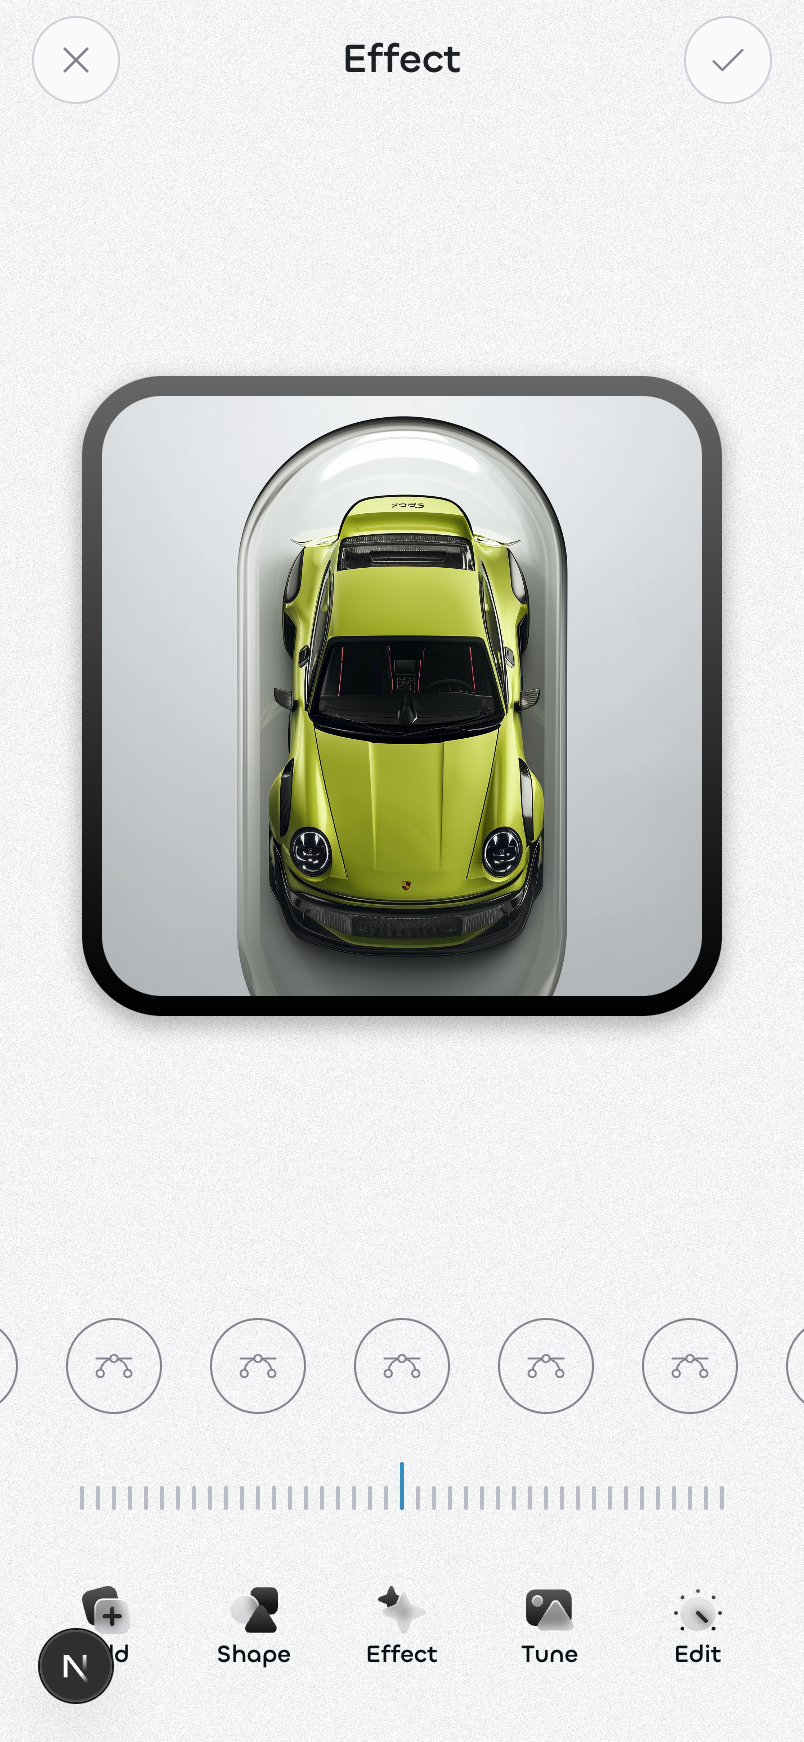
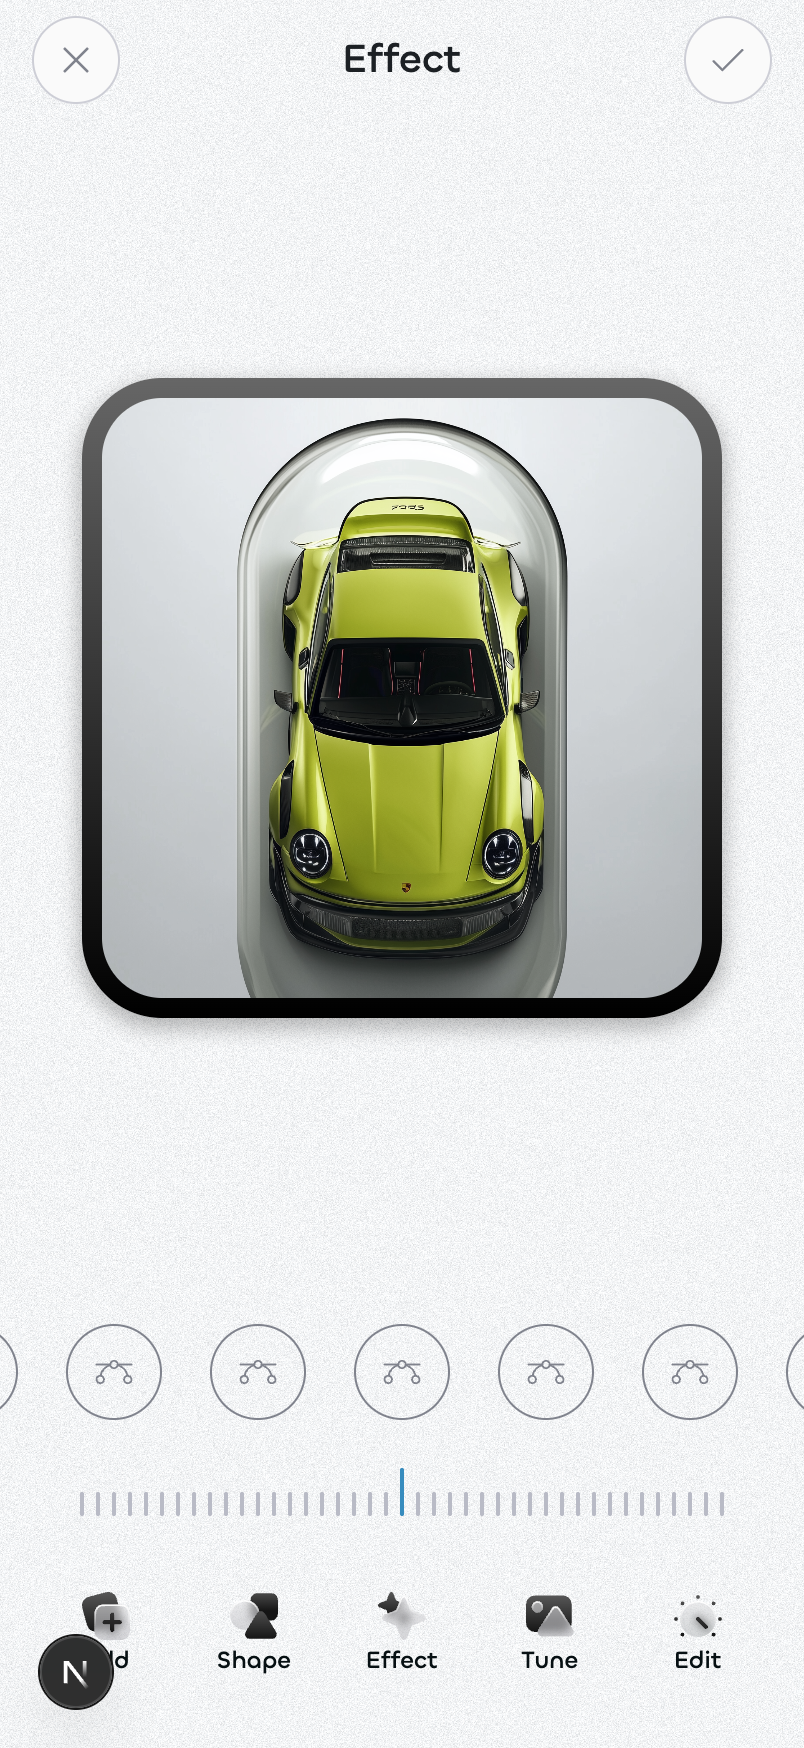
deploy(audit): console rework + fidelity refreshed at current Figma version (402×874) — 0.83%
Claude-Session: https://claude.ai/code/session_014qSpCKbVrcySkwsYYa9622

diff --git a/public/audit-console.html b/public/audit-console.html
@@ -15,12 +15,20 @@
   .chips{margin-left:auto;display:flex;gap:7px;font:11px ui-monospace,monospace;}
   .chip{background:#20202a;border-radius:7px;padding:4px 9px;color:#b7b7c2;}
   .chip b{color:#7fd8cd;} .chip.warn b{color:#e8a94c;} .chip.bad b{color:#f08a8a;}
-  .stage{position:absolute;top:46px;left:0;right:340px;bottom:0;display:grid;place-items:center;overflow:auto;background:#0e0e12;}
+  .rail2{position:fixed;top:46px;left:0;right:0;height:38px;z-index:30;background:#131319;border-bottom:1px solid #26262e;display:flex;align-items:center;gap:10px;padding:0 16px;font:11px ui-monospace,monospace;color:#b7b7c2;}
+  .rail2 select,.rail2 button{background:#20202a;color:#cfe;border:0;border-radius:6px;padding:4px 9px;cursor:pointer;font:500 11px system-ui;}
+  .rail2 input[type=range]{accent-color:#39b3a6;width:260px;}
+  .rail2 .tgl{margin-left:auto;display:flex;gap:6px;}
+  .rail2 .tgl button.off{color:#5a5a66;}
+  .stage{position:absolute;top:84px;left:240px;right:340px;bottom:0;display:grid;place-items:center;overflow:auto;background:#0e0e12;}
+  body.hideL .stage{left:0;} body.hideR .stage{right:0;}
+  .left{position:fixed;top:84px;left:0;bottom:0;width:240px;background:#131319;border-right:1px solid #26262e;overflow:auto;padding:10px;}
+  body.hideL .left{display:none;} body.hideR .panel{display:none;}
   .device{position:relative;background:#fff;outline:1px solid #2a2a32;}
   .device iframe{display:block;border:0;background:#eceff1;position:relative;z-index:1;}
   .device canvas.overlay{position:absolute;top:0;left:0;z-index:2;pointer-events:none;}
   .zonebox{position:absolute;z-index:3;pointer-events:none;border:1.5px dashed #8fd0ff;background:rgba(143,208,255,.08);display:none;}
-  .panel{position:fixed;top:46px;right:0;bottom:0;width:340px;background:#131319;border-left:1px solid #26262e;overflow:auto;padding:14px;}
+  .panel{position:fixed;top:84px;right:0;bottom:0;width:340px;background:#131319;border-left:1px solid #26262e;overflow:auto;padding:14px;}
   .panel .empty{color:#6a6a76;font-size:12px;padding:40px 8px;text-align:center;}
   .nodehdr{font-family:ui-monospace,monospace;font-size:12px;margin-bottom:2px;}
   .nodehdr b{color:#8fd0ff;} .nodesub{color:#7a7a86;font:11px ui-monospace,monospace;margin-bottom:12px;word-break:break-all;}
@@ -55,6 +63,20 @@
     <div class="chips" id="chips"></div>
   </div>
 
+  <div class="rail2">
+    <select id="gdev"><option value="">— device —</option></select>
+    <span>W</span><input type="range" id="gw" min="320" max="1728" value="402">
+    <span class="rawpx" id="gwv" style="color:#fff;font-weight:600">402px</span>
+    <button id="gfill">⤢ Fill</button>
+    <button id="greset">Reset</button>
+    <div class="tgl">
+      <button id="tglL">⟨ Tree</button>
+      <button id="tglR">Panel ⟩</button>
+    </div>
+  </div>
+
+  <div class="left" id="left"><div class="empty">Loading…</div></div>
+
   <div class="stage">
     <div class="device" id="device">
       <iframe id="frame" src="/converted/audit-mother-v2"></iframe>
@@ -75,16 +97,42 @@ let audit = null, mode = 'inspect', sel = null, zone = null, hi = null, iframeRe
 const esc = s => String(s).replace(/[&<>]/g,c=>({'&':'&amp;','<':'&lt;','>':'&gt;'}[c]));
 const doc = () => frame.contentDocument, win = () => frame.contentWindow;
 
+function updScrSize(){ try{ const w=win(), el=document.getElementById('scrsize'); if(el&&w) el.textContent=`${w.innerWidth}×${w.innerHeight}`; }catch{} }
+frame.addEventListener('load',()=>{ updScrSize(); try{ win().addEventListener('resize',updScrSize); }catch{} });
+window.addEventListener('resize',updScrSize);
+// ── global resizer (top bar — works in EVERY mode; Dan: resizer lives at the top) ──
+const gw=document.getElementById('gw'), gwv=document.getElementById('gwv'), gdev=document.getElementById('gdev');
+function setW(w, sync){
+  w=Math.max(320,Math.min(1728,w));
+  frame.style.width=w+'px'; gwv.textContent=w+'px'; if(sync)gw.value=w;
+  if(mode==='fidelity'&&audit&&w!==audit.frame.w) clearOverlay(); // heatmap is design-size only
+  updScrSize();
+  if(mode==='responsive') setTimeout(runInvariants,80);
+}
+gw.oninput=e=>setW(+e.target.value,false);
+gdev.onchange=e=>{ if(e.target.value)setW(+e.target.value,true); };
+document.getElementById('gfill').onclick=()=>setW(Math.floor(document.querySelector('.stage').clientWidth-24),true);
+document.getElementById('greset').onclick=()=>setW(audit?.frame.w||402,true);
+// panel toggles (full-screen test: hide either side)
+const tglL=document.getElementById('tglL'), tglR=document.getElementById('tglR');
+tglL.onclick=()=>{ document.body.classList.toggle('hideL'); tglL.classList.toggle('off'); };
+tglR.onclick=()=>{ document.body.classList.toggle('hideR'); tglR.classList.toggle('off'); };
+
 fetch(AUDIT_URL).then(r=>r.json()).then(a=>{
   audit = a; scr.textContent = `${a.name} · ${a.screen}`;
   const s = a.summary;
   chips.innerHTML =
+    `<span class="chip">screen <b id="scrsize">—</b></span>`+
     `<span class="chip">elements <b>${s.elements}</b></span>`+
     `<span class="chip">coverage <b>${s.coverage}%</b></span>`+
     `<span class="chip ${s.refusals?'bad':''}">refusals <b>${s.refusals}</b></span>`+
     `<span class="chip ${s.drift?'warn':''}">drift <b>${s.drift}</b></span>`+
     `<span class="chip ${s.approximations?'warn':''}">approx <b>${s.approximations}</b></span>`;
   frame.style.width = a.frame.w+'px'; frame.style.height = a.frame.h+'px';
+  gw.value=a.frame.w; gwv.textContent=a.frame.w+'px';
+  Object.entries(DEVICE_GROUPS).forEach(([g,list])=>{ const og=document.createElement('optgroup'); og.label=g;
+    list.forEach(d=>{const o=document.createElement('option');o.value=d[1];o.textContent=`${d[0]} · ${d[1]}×${d[2]}`;og.appendChild(o);}); gdev.appendChild(og); });
+  buildTree();
   const zs=document.getElementById('zonesel');
   (a.zones||[]).forEach(z=>{const o=document.createElement('option');o.value=z.id;o.textContent=z.class;zs.appendChild(o);});
   zs.onchange=e=>{ zone=e.target.value||null; applyMode(); };
@@ -114,6 +162,18 @@ function boxEl(el, persist){
   hi.style.display='block';
 }
 
+// ── LEFT: structure tree, always visible (Dan: structure on the left, own panel) ──
+function buildTree(){
+  const st=audit.structure, leftEl=document.getElementById('left'), lines=[];
+  (function walk(id,depth){ const n=audit.nodes[id]; if(!n)return; lines.push(`<div class="t" data-fc="${id}">${'  '.repeat(depth)}&lt;${esc(n.tag)}&gt; ${esc(n.name)}</div>`); (st.tree[id]||[]).forEach(c=>walk(c,depth+1)); })(st.rootId,0);
+  leftEl.innerHTML=`<div class="sect">Structure</div><div class="tree">${lines.join('')}</div>`;
+  leftEl.querySelectorAll('.tree .t').forEach(t=>t.onclick=()=>{
+    mode='inspect'; modesEl.querySelectorAll('button').forEach(x=>x.classList.toggle('on',x.dataset.mode==='inspect'));
+    sel=t.dataset.fc; applyMode();
+    const el=doc()?.querySelector(`[data-fc="${CSS.escape(sel)}"]`); if(el)boxEl(el,true);
+  });
+}
+
 // ── mode switching ──
 modesEl.querySelectorAll('button').forEach(b=>b.onclick=()=>{
   mode=b.dataset.mode; modesEl.querySelectorAll('button').forEach(x=>x.classList.toggle('on',x===b));
@@ -122,7 +182,7 @@ modesEl.querySelectorAll('button').forEach(b=>b.onclick=()=>{
 function clearOverlay(){ overlay.style.display='none'; if(hi)hi.style.display='none'; } // note: does NOT clear sel (QA F1 — tree click)
 function applyMode(){
   clearOverlay();
-  if(mode!=='responsive') frame.style.width=(audit?.frame.w||402)+'px'; // reset device size outside responsive
+  if(mode==='fidelity') setW(audit?.frame.w||402,true); // heatmap compares at design size
   hint.textContent = ({inspect:'Inspect · click an element · hover to preview',fidelity:'Fidelity · measured pixel diff vs Figma (red = mismatch)',responsive:'Responsive · device / slider / fill · invariants checked live',theming:'Theming · flip light/dark · token colors must move',structure:'Structure · layer tree, gates, asset integrity'})[mode];
   applyZoneBox();
   ({inspect:modeInspect,fidelity:modeFidelity,responsive:modeResponsive,theming:modeTheming,structure:modeStructure})[mode]();
@@ -149,7 +209,7 @@ function renderInspect(fc){
   if(n.drift) flags+=`<div class="flag drift">TOKEN DRIFT — Figma ${n.drift.figma} vs token resolves ${n.drift.resolved}</div>`;
   if(n.approximation) flags+=`<div class="flag approx">APPROXIMATION — ${esc(n.approximation.join('; '))}</div>`;
   panel.innerHTML=`<div class="nodehdr">&lt;${esc(n.tag)}&gt; <b>${esc(n.name)}</b></div>`+
-    `<div class="nodesub">.${esc(n.class)} · ${esc(fc)} · ${n.rel.w}×${n.rel.h} @ ${n.rel.x},${n.rel.y}</div>`+
+    `<div class="nodesub">.${esc(n.class)} · ${esc(fc)} · figma ${n.rel.w}×${n.rel.h} @ ${n.rel.x},${n.rel.y}${el?(()=>{const b=el.getBoundingClientRect();return ` · <span class="rawpx">live ${Math.round(b.width)}×${Math.round(b.height)} @ ${Math.round(b.x)},${Math.round(b.y)}</span>`;})():''}</div>`+
     `<div class="sect">Figma</div>${fig}`+
     `<div class="sect">Converted CSS · <span class="tok">token</span> → <span class="res">DS value</span> → <span class="rawpx">final px</span></div>${css}`+flags;
 }
@@ -195,38 +255,26 @@ const DEVICE_GROUPS={
   'Tablet':[['iPad mini 8.3',744,1133],['iPad Pro 11"',834,1194],['iPad Pro 12.9"',1024,1366],['Surface Pro 8',1440,960]],
   'Laptop / Desktop':[['MacBook Air',1280,832],['MacBook Pro 14"',1512,982],['MacBook Pro 16"',1728,1117],['Desktop',1440,1024]]
 };
+function runInvariants(){
+  const res=document.getElementById('rres'); if(!res)return;
+  const w=parseInt(frame.style.width)||audit.frame.w;
+  const d=doc(), root=[...d.body.children].find(e=>e.tagName==='DIV'&&win().getComputedStyle(e).display!=='none'); if(!root){res.innerHTML='';return;}
+  const vw=win().innerWidth, fails=[]; const rb=root.getBoundingClientRect();
+  if(Math.abs(rb.width-vw)>1) fails.push(`root width ${Math.round(rb.width)} ≠ viewport ${vw}`);
+  if(d.documentElement.scrollWidth>vw+1) fails.push(`horizontal overflow ${d.documentElement.scrollWidth}>${vw}`);
+  let capped=0;
+  for(const c of root.children){const s=win().getComputedStyle(c); if(s.maxWidth!=='none'){capped++; const b=c.getBoundingClientRect(); const off=Math.abs((b.x+b.width/2)-vw/2); if(off>2)fails.push(`.${String(c.className).split('_')[0]||'child'} off-center ${Math.round(off)}px`);}}
+  const ok=fails.length===0;
+  res.innerHTML=`<div class="big ${ok?'ok':'bad'}">${ok?'✓':'✗'} <span style="font:600 12px ui-monospace;color:#8a8a92">${w}px</span></div>`+
+    `<div class="row"><span class="k">root=viewport</span><span class="v">${fails.some(f=>f.includes('root width'))?'<span class=raw>fail</span>':'<span class=res>ok</span>'}</span></div>`+
+    `<div class="row"><span class="k">no overflow</span><span class="v">${fails.some(f=>f.includes('overflow'))?'<span class=raw>fail</span>':'<span class=res>ok</span>'}</span></div>`+
+    `<div class="row"><span class="k">capped centered</span><span class="v">${fails.some(f=>f.includes('off-center'))?'<span class=raw>fail</span>':'<span class=res>ok</span>'} (${capped} capped)</span></div>`+
+    (fails.length?`<div class="flag bad">${fails.map(esc).join('<br>')}</div>`:`<div class="flag ok">Every invariant holds at ${w}px — content centered, fills to cap, no overflow.</div>`)+
+    `<div class="flag ok" style="background:#12251e">Pixel fidelity is measured at the design size only (Figma renders at ${audit.frame.w}px). Other widths verify behaviour. Resize from the TOP BAR — works in every mode, panels hideable (⟨ ⟩).</div>`;
+}
 function modeResponsive(){
-  let w = parseInt(frame.style.width) || audit.frame.w;
-  // build the controls ONCE (recreating them on every input dropped drag increments — Dan)
-  panel.innerHTML=`<div class="sect">Responsive parity</div>`+
-    `<div class="ctl"><select id=rdev style="flex:1;background:#20202a;color:#cfe;border:0;border-radius:6px;padding:6px 8px;cursor:pointer"><option value="">— device —</option>${Object.entries(DEVICE_GROUPS).map(([g,list])=>`<optgroup label="${esc(g)}">${list.map(d=>`<option value="${d[1]}">${esc(d[0])} · ${d[1]}×${d[2]}</option>`).join('')}</optgroup>`).join('')}</select></div>`+
-    `<div class="ctl">W <input type=range id=rw min=320 max=1728 value=${w} style="flex:1"> <span class=rawpx id=rwv>${w}px</span></div>`+
-    `<div class="ctl"><button id=rfill>⤢ Fill window</button> <button id=rreset>Reset ${audit.frame.w}</button></div>`+
-    `<div id=rres></div>`;
-  const res=document.getElementById('rres'), rw=document.getElementById('rw'), rwv=document.getElementById('rwv');
-  const check=(sync)=>{
-    frame.style.width=w+'px'; rwv.textContent=w+'px'; if(sync)rw.value=w;
-    setTimeout(()=>{
-      const d=doc(), root=[...d.body.children].find(e=>e.tagName==='DIV'&&win().getComputedStyle(e).display!=='none'); if(!root){res.innerHTML='';return;}
-      const vw=win().innerWidth, fails=[]; const rb=root.getBoundingClientRect();
-      if(Math.abs(rb.width-vw)>1) fails.push(`root width ${Math.round(rb.width)} ≠ viewport ${vw}`);
-      if(d.documentElement.scrollWidth>vw+1) fails.push(`horizontal overflow ${d.documentElement.scrollWidth}>${vw}`);
-      let capped=0;
-      for(const c of root.children){const s=win().getComputedStyle(c); if(s.maxWidth!=='none'){capped++; const b=c.getBoundingClientRect(); const off=Math.abs((b.x+b.width/2)-vw/2); if(off>2)fails.push(`.${String(c.className).split('_')[0]||'child'} off-center ${Math.round(off)}px`);}}
-      const ok=fails.length===0;
-      res.innerHTML=`<div class="big ${ok?'ok':'bad'}">${ok?'✓':'✗'} <span style="font:600 12px ui-monospace;color:#8a8a92">${w}px</span></div>`+
-        `<div class="row"><span class="k">root=viewport</span><span class="v">${fails.some(f=>f.includes('root width'))?'<span class=raw>fail</span>':'<span class=res>ok</span>'}</span></div>`+
-        `<div class="row"><span class="k">no overflow</span><span class="v">${fails.some(f=>f.includes('overflow'))?'<span class=raw>fail</span>':'<span class=res>ok</span>'}</span></div>`+
-        `<div class="row"><span class="k">capped centered</span><span class="v">${fails.some(f=>f.includes('off-center'))?'<span class=raw>fail</span>':'<span class=res>ok</span>'} (${capped} capped)</span></div>`+
-        (fails.length?`<div class="flag bad">${fails.map(esc).join('<br>')}</div>`:`<div class="flag ok">Every invariant holds at ${w}px — content centered, fills to cap, no overflow.</div>`)+
-        `<div class="flag ok" style="background:#12251e">Pixel fidelity is measured at the design size only (Figma renders at ${audit.frame.w}px). Other widths verify behaviour + the clone-resize ground truth: 640px 4.06% · 900px 4.13%.</div>`;
-    },70);
-  };
-  rw.oninput=e=>{ w=+e.target.value; check(false); };
-  document.getElementById('rdev').onchange=e=>{ if(e.target.value){ w=+e.target.value; check(true); } };
-  document.getElementById('rfill').onclick=()=>{ w=Math.max(320,Math.floor(document.querySelector('.stage').clientWidth-24)); check(true); };
-  document.getElementById('rreset').onclick=()=>{ w=audit.frame.w; check(true); };
-  check(true);
+  panel.innerHTML=`<div class="sect">Responsive parity — resize from the top bar</div><div id=rres></div>`;
+  runInvariants();
 }
 
 // ── THEMING (token-driven colours must move on theme flip) ──
@@ -253,17 +301,13 @@ function modeTheming(){
 // ── STRUCTURE / ASSETS ──
 function modeStructure(){
   const st=audit.structure, s=audit.summary;
-  const lines=[];
-  (function walk(id,depth){ const n=audit.nodes[id]; if(!n)return; lines.push(`<div class="t" data-fc="${id}">${'  '.repeat(depth)}&lt;${esc(n.tag)}&gt; ${esc(n.name)}</div>`); (st.tree[id]||[]).forEach(c=>walk(c,depth+1)); })(st.rootId,0);
-  panel.innerHTML=`<div class="sect">Structure — layer tree 1:1</div>`+
+  panel.innerHTML=`<div class="sect">Structure — gates &amp; assets (tree in the left panel)</div>`+
     `<div class="row"><span class="k">elements</span><span class="v">${s.elements}</span></div>`+
     `<div class="row"><span class="k">refusals</span><span class="v"><span class="${s.refusals?'raw':'res'}">${s.refusals}</span></span></div>`+
     `<div class="row"><span class="k">gates</span><span class="v"><span class=res>census · canon · reverse · conformance OK</span></span></div>`+
     `<div class="sect">Assets</div>`+
     `<div class="row"><span class="k">inline SVGs</span><span class="v">${st.svgCount} preserved</span></div>`+
-    st.images.map(im=>`<div class="row"><span class="k">image</span><span class="v">${(im.bytes/1e6).toFixed(2)}MB · <span class="${im.byteExact?'res':'raw'}">${im.byteExact?'byte-exact original':'RE-ENCODED'}</span></span></div>`).join('')+
-    `<div class="sect">Tree</div><div class="tree">${lines.join('')}</div>`;
-  panel.querySelectorAll('.tree .t').forEach(t=>t.onclick=()=>{ mode='inspect'; modesEl.querySelectorAll('button').forEach(x=>x.classList.toggle('on',x.dataset.mode==='inspect')); sel=t.dataset.fc; applyMode(); renderInspect(sel); const el=doc().querySelector(`[data-fc="${CSS.escape(sel)}"]`); if(el)boxEl(el,true); });
+    st.images.map(im=>`<div class="row"><span class="k">image</span><span class="v">${(im.bytes/1e6).toFixed(2)}MB · <span class="${im.byteExact?'res':'raw'}">${im.byteExact?'byte-exact original':'RE-ENCODED'}</span></span></div>`).join('');
 }
 
 // ── ZONES (region filter — highlight the screen region) ──
